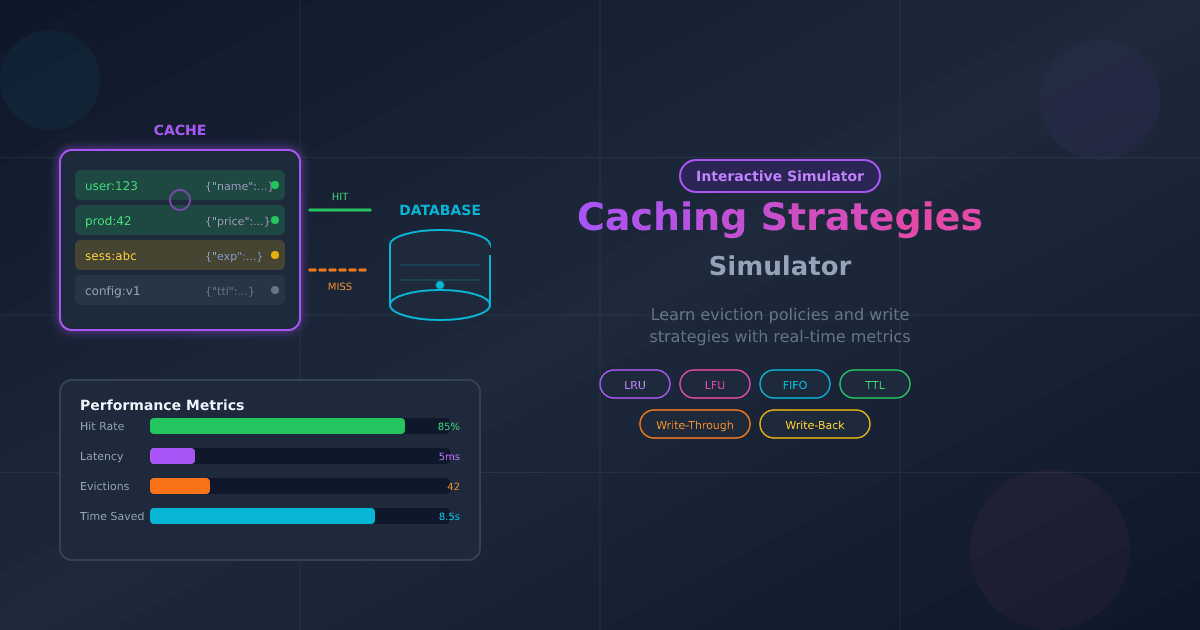
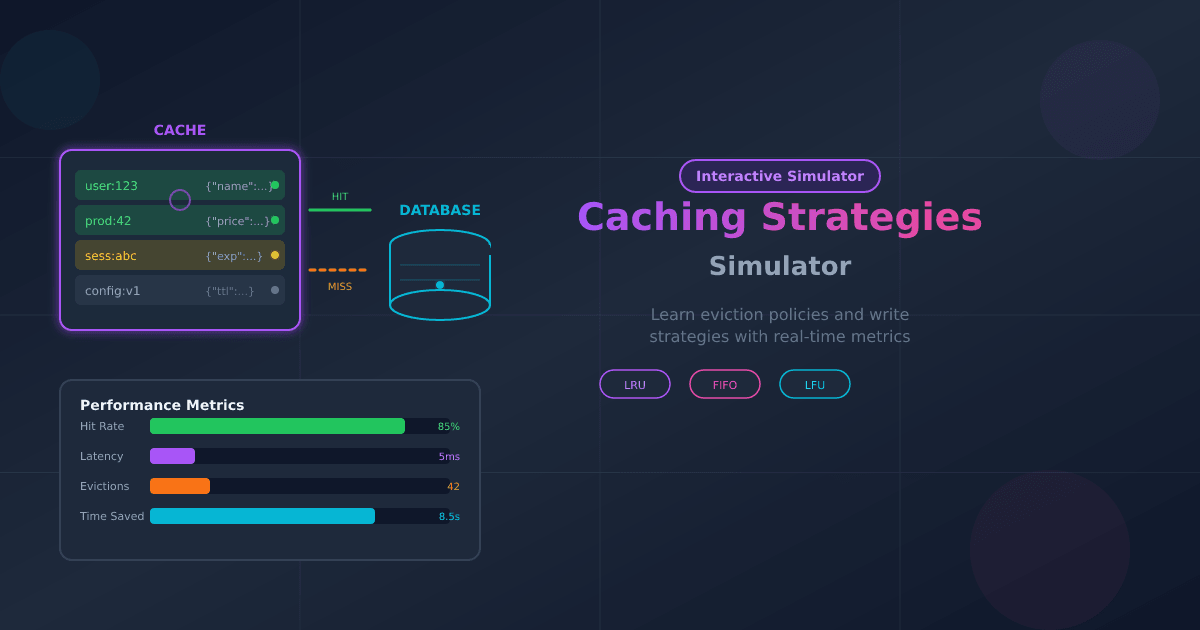
feat: Add realistic response times and update OG image
- Replace hardcoded latencies with randomized realistic values
- Cache: 1-10ms (was fixed 5ms)
- Database: 50-200ms (was fixed 100ms)
- Track actual 'without cache' time for accurate comparison
- Update OG image to show only the 3 core policies: LRU, FIFO, LFU
- Regenerate PNG from updated SVG

Changed region(s): [[0.5242, 0.573, 0.7708, 0.7238], [0.2158, 0.3921, 0.2467, 0.4222]]

diff --git a/components/games/caching-simulator.tsx b/components/games/caching-simulator.tsx
@@ -58,14 +58,16 @@ const DATA_ITEMS = [
 ];
 
 const CACHE_SIZE = 4;
-const CACHE_LATENCY = 5;
-const DB_LATENCY = 100;
+
+// Realistic latency ranges (in milliseconds)
+const getCacheLatency = () => Math.floor(Math.random() * 9) + 1; // 1-10ms
+const getDbLatency = () => Math.floor(Math.random() * 150) + 50; // 50-200ms
 
 export default function CachingSimulator() {
   const [policy, setPolicy] = useState<EvictionPolicy>('lru');
   const [cache, setCache] = useState<CacheItem[]>([]);
   const [animation, setAnimation] = useState<RequestAnimation | null>(null);
-  const [stats, setStats] = useState({ hits: 0, misses: 0, totalTime: 0 });
+  const [stats, setStats] = useState({ hits: 0, misses: 0, totalTime: 0, withoutCacheTime: 0 });
   const [evictingKey, setEvictingKey] = useState<string | null>(null);
   const [tick, setTick] = useState(0);
   const [requestSteps, setRequestSteps] = useState<RequestStep[]>([]);
@@ -100,6 +102,10 @@ export default function CachingSimulator() {
     setTick(currentTick);
     setLastResult(null);
 
+    // Generate realistic latencies for this request
+    const cacheLatency = getCacheLatency();
+    const dbLatency = getDbLatency();
+
     const cachedItem = cache.find((item) => item.key === key);
     const isHit = !!cachedItem;
 
@@ -109,13 +115,13 @@ export default function CachingSimulator() {
       // Cache HIT - show 2-step process
       setRequestSteps([
         { step: 1, label: 'Check cache for data', status: 'active' },
-        { step: 2, label: 'Return from cache', status: 'pending', time: CACHE_LATENCY },
+        { step: 2, label: 'Return from cache', status: 'pending', time: cacheLatency },
       ]);
 
       setTimeout(() => {
         setRequestSteps([
           { step: 1, label: 'Check cache for data', status: 'done' },
-          { step: 2, label: 'Found! Return from cache', status: 'active', time: CACHE_LATENCY },
+          { step: 2, label: 'Found! Return from cache', status: 'active', time: cacheLatency },
         ]);
         setAnimation((prev) => prev && { ...prev, phase: 'hit' });
 
@@ -130,16 +136,17 @@ export default function CachingSimulator() {
         setStats((prev) => ({
           ...prev,
           hits: prev.hits + 1,
-          totalTime: prev.totalTime + CACHE_LATENCY,
+          totalTime: prev.totalTime + cacheLatency,
+          withoutCacheTime: prev.withoutCacheTime + dbLatency,
         }));
       }, 400);
 
       setTimeout(() => {
         setRequestSteps([
           { step: 1, label: 'Check cache for data', status: 'done' },
-          { step: 2, label: 'Found! Return from cache', status: 'done', time: CACHE_LATENCY },
+          { step: 2, label: 'Found! Return from cache', status: 'done', time: cacheLatency },
         ]);
-        setLastResult({ isHit: true, time: CACHE_LATENCY, key });
+        setLastResult({ isHit: true, time: cacheLatency, key });
         setAnimation(null);
       }, 1200);
     } else {
@@ -149,7 +156,7 @@ export default function CachingSimulator() {
 
       setRequestSteps([
         { step: 1, label: 'Check cache for data', status: 'active' },
-        { step: 2, label: 'Fetch from database', status: 'pending', time: DB_LATENCY },
+        { step: 2, label: 'Fetch from database', status: 'pending', time: dbLatency },
         ...(needsEviction ? [{ step: 3, label: `Evict "${toEvict?.key}" to make room`, status: 'pending' as const }] : []),
         { step: needsEviction ? 4 : 3, label: 'Store in cache for next time', status: 'pending' as const },
       ]);
@@ -198,12 +205,13 @@ export default function CachingSimulator() {
         setStats((prev) => ({
           ...prev,
           misses: prev.misses + 1,
-          totalTime: prev.totalTime + DB_LATENCY,
+          totalTime: prev.totalTime + dbLatency,
+          withoutCacheTime: prev.withoutCacheTime + dbLatency,
         }));
       }, 1200);
 
       setTimeout(() => {
-        setLastResult({ isHit: false, time: DB_LATENCY, key });
+        setLastResult({ isHit: false, time: dbLatency, key });
         setAnimation(null);
       }, 1800);
     }
@@ -212,7 +220,7 @@ export default function CachingSimulator() {
   const reset = () => {
     setCache([]);
     setAnimation(null);
-    setStats({ hits: 0, misses: 0, totalTime: 0 });
+    setStats({ hits: 0, misses: 0, totalTime: 0, withoutCacheTime: 0 });
     setEvictingKey(null);
     setTick(0);
     setRequestSteps([]);
@@ -326,7 +334,7 @@ export default function CachingSimulator() {
                 <Database className="h-6 w-6 text-white" />
               </div>
               <span className="text-xs mt-1 text-muted-foreground">Database</span>
-              <span className="text-xs text-red-500 font-medium">Slow ({DB_LATENCY}ms)</span>
+              <span className="text-xs text-red-500 font-medium">Slow (50-200ms)</span>
             </div>
 
             {/* Cache */}
@@ -355,7 +363,7 @@ export default function CachingSimulator() {
                 </div>
                 <div className="flex items-center gap-1 mt-1">
                   <HardDrive className="h-3 w-3 text-emerald-500" />
-                  <span className="text-xs text-emerald-600 dark:text-emerald-400 font-medium">Fast ({CACHE_LATENCY}ms)</span>
+                  <span className="text-xs text-emerald-600 dark:text-emerald-400 font-medium">Fast (1-10ms)</span>
                 </div>
               </div>
             </div>
@@ -439,7 +447,7 @@ export default function CachingSimulator() {
                     {step.time && (
                       <span className={cn(
                         'ml-auto',
-                        step.time === CACHE_LATENCY ? 'text-green-400' : 'text-red-400'
+                        step.time <= 10 ? 'text-green-400' : 'text-red-400'
                       )}>
                         +{step.time}ms
                       </span>
@@ -531,7 +539,7 @@ export default function CachingSimulator() {
                       <motion.div
                         className="h-full bg-green-500"
                         initial={{ width: 0 }}
-                        animate={{ width: `${Math.min((stats.totalTime / ((stats.hits + stats.misses) * DB_LATENCY)) * 100, 100)}%` }}
+                        animate={{ width: `${stats.withoutCacheTime > 0 ? Math.min((stats.totalTime / stats.withoutCacheTime) * 100, 100) : 0}%` }}
                       />
                     </div>
                     <span className="text-xs font-medium text-green-600 dark:text-green-400 w-16 text-right">
@@ -544,12 +552,12 @@ export default function CachingSimulator() {
                       <div className="h-full bg-red-500 w-full" />
                     </div>
                     <span className="text-xs font-medium text-red-600 dark:text-red-400 w-16 text-right">
-                      {(stats.hits + stats.misses) * DB_LATENCY}ms
+                      {stats.withoutCacheTime}ms
                     </span>
                   </div>
                 </div>
                 <p className="text-xs text-center mt-2 text-emerald-600 dark:text-emerald-400 font-medium">
-                  You saved {(stats.hits + stats.misses) * DB_LATENCY - stats.totalTime}ms with caching!
+                  You saved {stats.withoutCacheTime - stats.totalTime}ms with caching!
                 </p>
               </div>
             )}
@@ -610,11 +618,11 @@ export default function CachingSimulator() {
           <div className="grid sm:grid-cols-2 gap-4">
             <div className="p-3 bg-red-500/10 rounded-lg border border-red-500/20">
               <div className="font-medium text-red-600 dark:text-red-400 mb-1">Without Cache</div>
-              <p>Every request goes to the database ({DB_LATENCY}ms each time). Slow and expensive!</p>
+              <p>Every request goes to the database (50-200ms each time). Slow and expensive!</p>
             </div>
             <div className="p-3 bg-green-500/10 rounded-lg border border-green-500/20">
               <div className="font-medium text-green-600 dark:text-green-400 mb-1">With Cache</div>
-              <p>Repeated requests return instantly ({CACHE_LATENCY}ms). 20x faster!</p>
+              <p>Repeated requests return instantly (1-10ms). Up to 20x faster!</p>
             </div>
           </div>
           <p>
